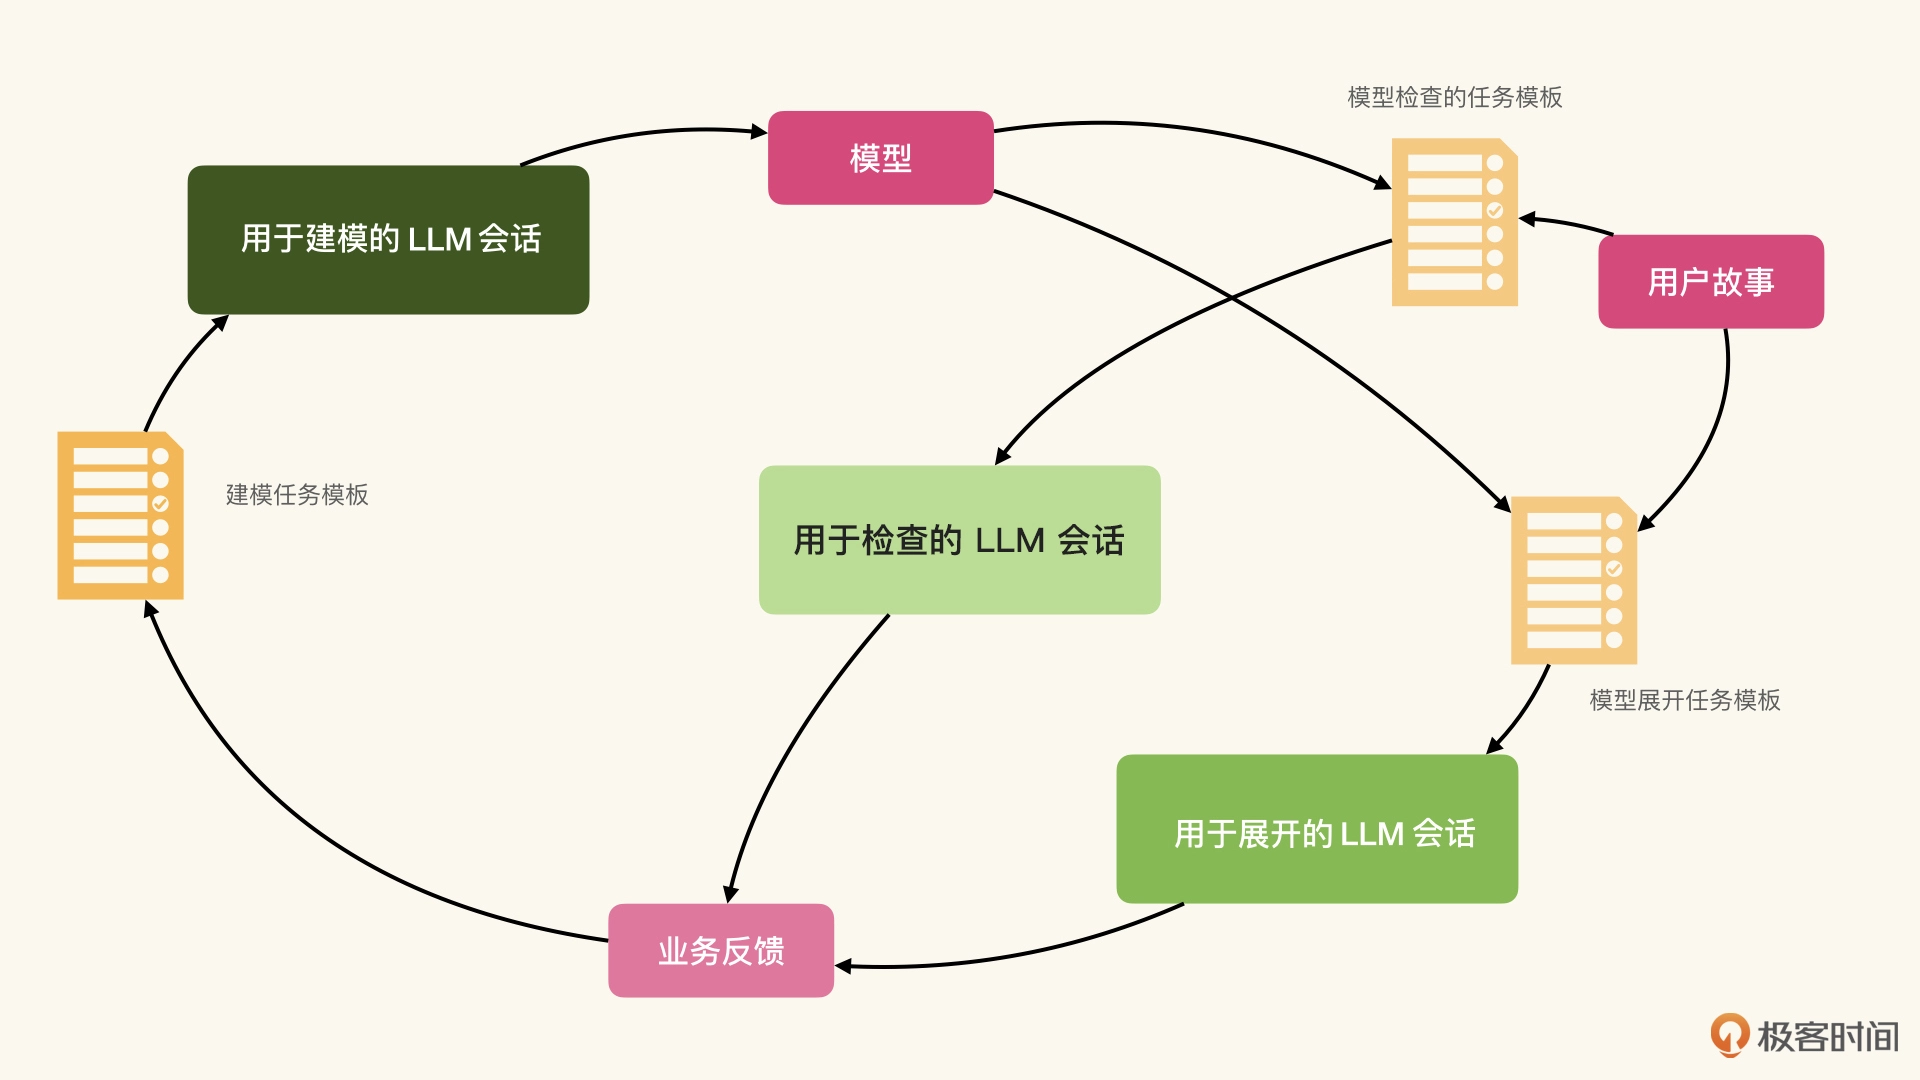
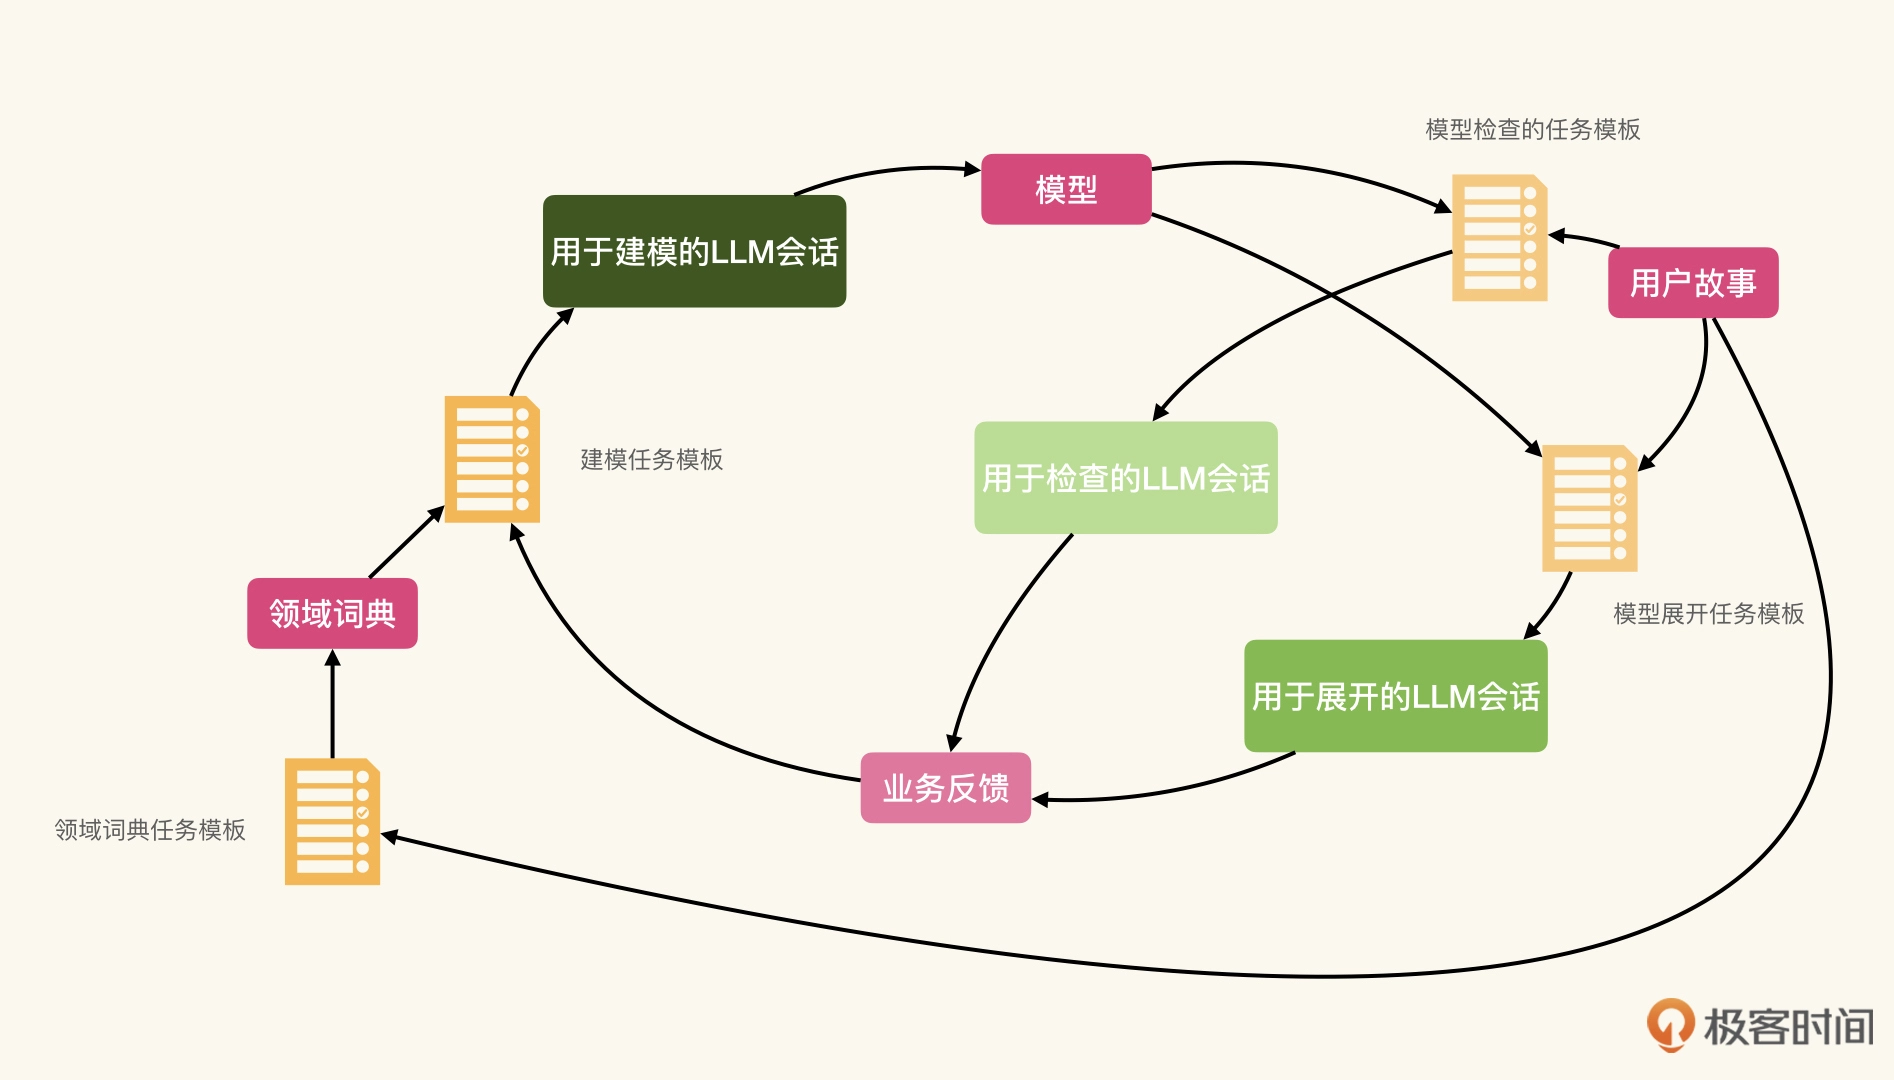
docs:  概念词典

diff --git a/software engineering with AI/8. LLM辅助建模.md b/software engineering with AI/8. LLM辅助建模.md
@@ -36,9 +36,8 @@
 ```plain
 领域模型
 ======
-```mermaid
+mermaid
 {model}
-```
 
 用户故事
 ======
@@ -58,9 +57,9 @@
 ```plain
 领域模型
 ======
-```mermaid
+mermaid
 {model}
-```
+
 
 用户故事
 ======
@@ -88,3 +87,54 @@ ac：如果获取了录取通知的学生没有注册学籍时（<strong>Given</
 
 
 tips: 使用 ChatGPT-4 的插件，可以直接显示模型图。如果没有插件的话，可以根据 ChatGPT 生成的 Mermaid 在使用在线编辑器看图。
+
+
+<b>
+
+## 通过概念字典辅助建模
+通常在建模的过程中，我们会维护一个概念字典（Glossary），其中包含对于系统非常重要的业务概念，以及对于这些概念的基本解释。
+
+比如：
+```
+这是一个教学学籍管理系统。系统中应该包含以下的核心概念：
+- 教学计划：一系列相关课程和活动，这些课程和活动旨在培养特定领域的知识和技能。比如，计算机科学与技术学士学位教学计划，或是计算机科学与技术硕士学位教学计划
+- 录取通知：学生需要根据录取通知注册学籍。录取通知应该包含学生被录取的信息，如录取的教学计划
+- 学籍：当学生注册之后，学籍记录学生在校将按照哪个教学计划学习
+- 学生
+```
+概念字典的构建并不需要完全依靠 LLM 的反馈。在建模的过程中，我们通过对领域或业务的理解、用户访谈，甚至是阅读用户故事，都不难发现其中涉及的一些概念，以及这些概念之间的关联。
+
+这样，建模的模版可以升级为：
+```
+业务描述
+=======
+{context}
+
+系统中涉及概念的glossary如下：
+{glossary}
+
+任务
+====
+根据业务描述，为系统建立模型。可以添加你认为必要的实体和关系。并将模型表示为mermaid的class diagram
+```
+
+也可以使用 LLM 辅助我们提取这个概念字典。我们可以设计这样的任务模板：
+```
+用户故事
+======
+{story}
+
+任务
+===
+请根据用户故事中描述的业务场景，提取其中的业务概念，并给出每个概念的定义。
+结果以表格形式给出。
+```
+
+在最开始的时候，我们完全使用复杂认知模式（Complex），依靠反馈循环辅助我们完成建模的过程。
+而当我们发现 LLM 给出的反馈，可以构成概念字典时。
+我们的关注点，就变成了如何有效地生成概念字典。也就是，我们从探测性的模型生成转向了有针对性的知识生成（Generated Knowledge）。
+这实际是一种认知提升的体现，我们也由此逐渐进入到庞杂认知模式（Complicated）。
+
+
+## 围绕概念字典构造思维链
+一旦进入到庞杂认知模式，那么通过构造思维链（Chain of Thought）提高效率就是一个很自然的选择了。
